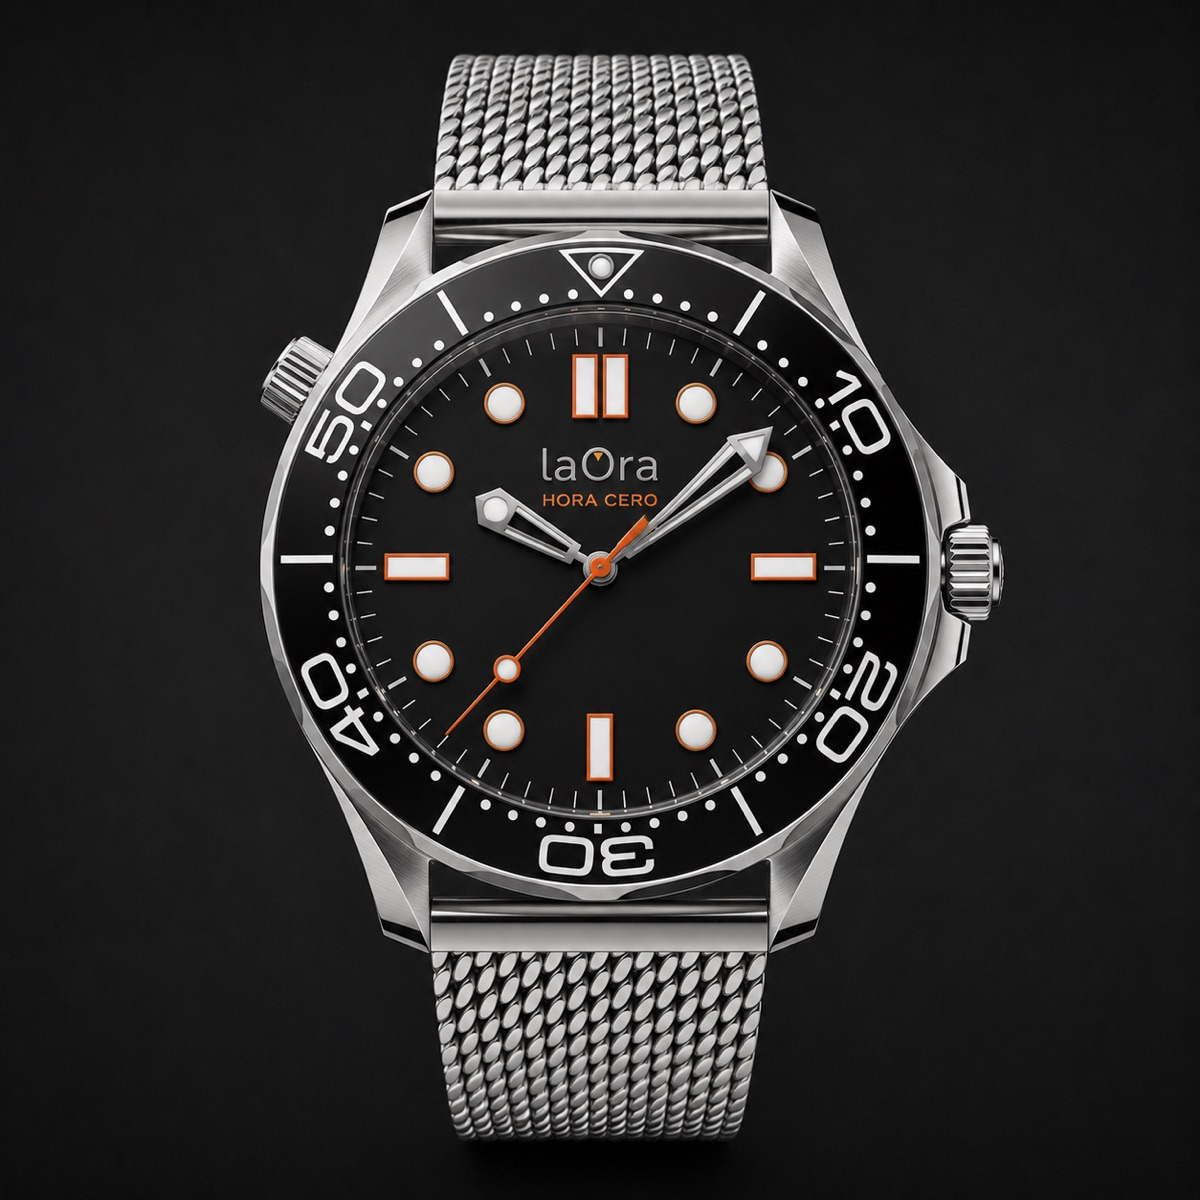
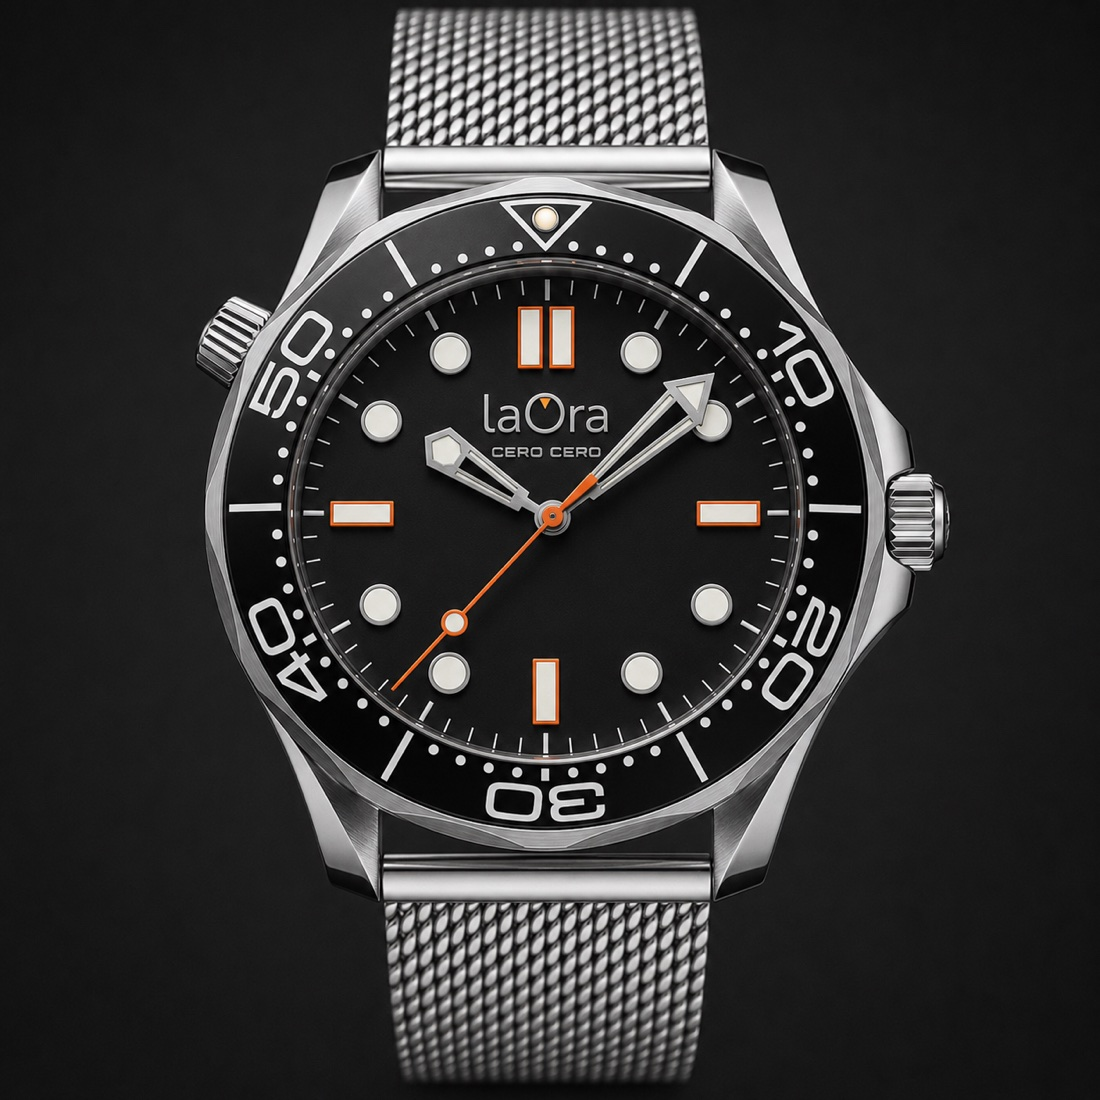
LO-02 pasa a llamarse «Cero Cero»: manda la esfera
El render dice CERO CERO y el nombre del reloj se alinea con él. Cambiado
en todas partes: h1, títulos, metas, og:, la colección, precios.js, los
documentos internos y el texto de la propia ficha.

La URL también: /relojes/lo-02-hora-cero.html → lo-02-cero-cero.html, con
301 en _redirects por si la vieja estuviera indexada o enlazada.

Y la foto de la ficha, que era el render antiguo con «HORA CERO» impreso
en la esfera: sustituida por el de Drive, que dice lo que toca.

Changed region(s): [[0.1545, 0.0, 0.8655, 0.9891]]

diff --git a/relojes/lo-02-cero-cero.html b/relojes/lo-02-cero-cero.html
@@ -4,11 +4,11 @@
 <meta charset="utf-8">
 <meta name="viewport" content="width=device-width,initial-scale=1">
 <meta name="description" content="Buceador de 300 m reales con malla milanesa, agujas espada y acentos naranja. Cada unidad pasa prueba de presión en Madrid. Desde 190 €.">
-<meta property="og:title" content="LO-02 «Hora Cero» — Buceador 300 m laOra">
+<meta property="og:title" content="LO-02 «Cero Cero» — Buceador 300 m laOra">
 <meta property="og:description" content="Buceador de 300 m reales con malla milanesa, agujas espada y acentos naranja. Cada unidad pasa prueba de presión en Madrid. Desde 190 €.">
-<meta property="og:url" content="https://laora.es/relojes/lo-02-hora-cero.html">
+<meta property="og:url" content="https://laora.es/relojes/lo-02-cero-cero.html">
 <meta property="og:image" content="https://laora.es/assets/img/relojes/lo-02.jpg">
-<title>LO-02 «Hora Cero» — Buceador 300 m laOra · desde 190 €</title>
+<title>LO-02 «Cero Cero» — Buceador 300 m laOra · desde 190 €</title>
 <link rel="icon" type="image/png" href="/assets/img/app-laora.png?v=2">
 <link rel="apple-touch-icon" href="/apple-touch-icon.png?v=2">
 <link rel="manifest" href="/manifest.json">
@@ -35,11 +35,11 @@
   <div class="container hero-grid">
     <div class="stage reveal">
       <span class="stage-badge"><span class="laora">laOra</span> · LO-02</span>
-      <img src="/assets/img/relojes/lo-02.jpg" alt="Reloj laOra Hora Cero, buceador 300 m" onerror="this.remove()">
+      <img src="/assets/img/relojes/lo-02.jpg" alt="Reloj laOra Cero Cero, buceador 300 m" onerror="this.remove()">
     </div>
     <div>
       <span class="eyebrow">LO-02 · Buceador 300 m</span>
-      <h1>«Hora Cero»</h1>
+      <h1>«Cero Cero»</h1>
       <p class="hero-sub" style="margin-top:14px">Buceador 300 m · desde <b>190 €</b></p>
       <div class="hero-cta">
         <a href="/coleccion.html" class="btn btn-carbon">Avísame del estreno</a>
@@ -84,7 +84,7 @@
       <h2>Lo mismo que amas. Sin el peaje.</h2>
     </div>
     <div class="story reveal">
-      <p>El favorito de mucha gente, y se entiende. El «Hora Cero» recoge lo que lo hace grande: esfera negra con acentos naranja, agujas espada, bisel cerámico y esa malla milanesa que es media personalidad del reloj.</p>
+      <p>El favorito de mucha gente, y se entiende. El «Cero Cero» recoge lo que lo hace grande: esfera negra con acentos naranja, agujas espada, bisel cerámico y esa malla milanesa que es media personalidad del reloj.</p>
       <p>Y recoge también su idea. En este reloj el bisel no es un adorno: es el aro con el que marcas tu minuto cero y ves cuánto llevas. Por eso lo cuidamos donde se nota — clic firme, sin holgura, unidireccional como debe ser.</p>
       <p>Lo demás no se ve en la foto y sí en el agua: cada unidad pasa la prueba de presión en Madrid antes de salir. Y en la malla no aceptamos el cierre magnético barato: va con cierre desplegable de calidad. Un detalle así es donde se nota si alguien te ha respetado o te ha ahorrado.</p>
     </div>
@@ -257,7 +257,7 @@
 <section class="block dark-sec" style="background:radial-gradient(120% 120% at 50% 0%,#1b1e24,#0b0d12)">
   <div class="container block-head reveal">
     <span class="eyebrow">El estreno</span>
-    <h2>Que te avisemos cuando salga el «Hora Cero».</h2>
+    <h2>Que te avisemos cuando salga el «Cero Cero».</h2>
     <p>Sin pago por adelantado. Te escribimos en cuanto se abra la reserva, por orden de llegada.</p>
     <div class="hero-cta" style="justify-content:center;margin-top:30px">
       <a href="/coleccion.html" class="btn btn-ambar">Avísame del estreno</a>

diff --git a/coleccion.html b/coleccion.html
@@ -202,9 +202,9 @@ footer{background:var(--negro);border-top:1px solid rgba(255,255,255,.08)}
           <span class="uno-ref">LO-01</span>
           <span class="uno-precio">desde 190 €</span>
         </a>
-        <a class="uno c-reveal" href="/relojes/lo-02-hora-cero.html">
-          <div class="uno-foto"><img src="/assets/img/relojes/col-02.jpg" alt="Hora Cero de laOra, buceador · 300 m" loading="lazy"></div>
-          <span class="uno-nombre">hora cero</span>
+        <a class="uno c-reveal" href="/relojes/lo-02-cero-cero.html">
+          <div class="uno-foto"><img src="/assets/img/relojes/col-02.jpg" alt="Cero Cero de laOra, buceador · 300 m" loading="lazy"></div>
+          <span class="uno-nombre">cero cero</span>
           <span class="uno-ref">LO-02</span>
           <span class="uno-precio">desde 190 €</span>
         </a>

diff --git a/assets/js/precios.js b/assets/js/precios.js
@@ -37,7 +37,7 @@ var LAORA_PRECIOS = {
     }
   },
   'LO-02': {
-    nombre: 'Hora Cero',
+    nombre: 'Cero Cero',
     acabados: {
       Alba:    { precio: null, horquilla: 'Desde 190 €' },
       Levante: { precio: null, horquilla: '280–380 €' },

diff --git a/.docs/copy-web.md b/.docs/copy-web.md
@@ -1,6 +1,6 @@
 # laOra — Copy completo de la web (v3)
 
-Cambios respecto a v1: colección renumerada del LO-01 al LO-09 sin huecos (solo se mueve Hora Cero, del 10 al 02), «Octógono» pasa a «Ocho» y «Puerto» a «Bitácora», encabezados sin marcas ajenas (la marca homenajeada vive solo dentro de «La historia»), ST1901 corregido a cuerda manual, manifiesto abierto a tres corazones, LO-10 renombrado «Hora Cero», estanqueidad en dos registros.
+Cambios respecto a v1: colección renumerada del LO-01 al LO-09 sin huecos (solo se mueve Cero Cero, del 10 al 02), «Octógono» pasa a «Ocho» y «Puerto» a «Bitácora», encabezados sin marcas ajenas (la marca homenajeada vive solo dentro de «La historia»), ST1901 corregido a cuerda manual, manifiesto abierto a tres corazones, LO-10 renombrado «Cero Cero», estanqueidad en dos registros.
 
 ---
 
@@ -152,7 +152,7 @@ Montaje, calibración y control uno a uno. Garantía de 2 años con servicio té
 
 ---
 
-## LO-02 «Hora Cero»
+## LO-02 «Cero Cero»
 **Buceador 300 m · desde 190 €**
 
 ### LA HISTORIA
@@ -164,7 +164,7 @@ Antes de cada operación, alguien dice una hora. Todos ponen su reloj en la mism
 Porque reúne dos mundos que casi nunca conviven: la herramienta y el traje. Es un instrumento de buceo profesional —300 metros de estanqueidad, bisel para cronometrar el aire que te queda, lume para la oscuridad del fondo— y sin embargo desaparece bajo el puño de una camisa. Esa doble vida, más la malla milanesa y el toque de naranja, lo convirtieron en una de las siluetas más reconocibles del mundo.
 
 ### NUESTRO TRIBUTO
-El favorito de mucha gente, y se entiende. El «Hora Cero» recoge lo que lo hace grande: esfera negra con acentos naranja, agujas espada, bisel cerámico y esa malla milanesa que es media personalidad del reloj.
+El favorito de mucha gente, y se entiende. El «Cero Cero» recoge lo que lo hace grande: esfera negra con acentos naranja, agujas espada, bisel cerámico y esa malla milanesa que es media personalidad del reloj.
 
 Y recoge también su idea. En este reloj el bisel no es un adorno: es el aro con el que marcas tu minuto cero y ves cuánto llevas. Por eso lo cuidamos donde se nota — clic firme, sin holgura, unidireccional como debe ser.
 
@@ -400,7 +400,7 @@ Montaje, calibración y control uno a uno. Garantía de 2 años con servicio té
 
 # EDICIÓN ECLIPSE — la línea negra
 
-*(Edición especial disponible en modelos seleccionados: Lunar, Hora Cero, Precisa, Ocho Lados, Bitácora y Tortuga. Se ofrece sobre los acabados medios y altos.)*
+*(Edición especial disponible en modelos seleccionados: Lunar, Cero Cero, Precisa, Ocho Lados, Bitácora y Tortuga. Se ofrece sobre los acabados medios y altos.)*
 
 ### Titular
 **Todo se apaga. Menos una cosa.**
@@ -415,7 +415,7 @@ El negro no es pintura. Es **DLC**, un revestimiento de carbono tan duro que se 
 No es un color más. Es el mismo reloj que ya conoces, llevado a su versión más rotunda. Para quien no quiere que su reloj hable por él, sino que calle con estilo.
 
 ### Nota (Dev)
-La Edición Eclipse funciona como un interruptor de acabado dentro de la ficha de los modelos elegibles: mismo diseño, revestimiento DLC negro, esfera negra y agujas plateadas con segundero amarillo. En los divers (Hora Cero, Tortuga) puede ofrecerse la variante de horaria amarilla para un look más marcado. Lleva su prima de precio por el DLC.
+La Edición Eclipse funciona como un interruptor de acabado dentro de la ficha de los modelos elegibles: mismo diseño, revestimiento DLC negro, esfera negra y agujas plateadas con segundero amarillo. En los divers (Cero Cero, Tortuga) puede ofrecerse la variante de horaria amarilla para un look más marcado. Lleva su prima de precio por el DLC.
 
 ---
 

diff --git a/.docs/brief-desarrollo.md b/.docs/brief-desarrollo.md
@@ -69,7 +69,7 @@ Numeración final LO-01 a LO-09, sin huecos. En la rejilla y en la UI **los mode
 | Ref | Nombre | Categoría | Homenaje (solo en «La historia») | Esfera / color | Movimientos | Acabados | Desde | Riesgo legal |
 |---|---|---|---|---|---|---|---|---|
 | LO-01 | «Lunar» | Cronógrafo | Omega Speedmaster Moonwatch | Negra, 3 subesferas | VK63 mecacuarzo · ST1901 cuerda manual | 4 | 190 € | Medio |
-| LO-02 | «Hora Cero» | Buceador 300 m | Omega Seamaster Diver 300M (Bond) | Negra, acentos naranja, malla, sin fecha | VH31 mecacuarzo · NH35 automático | 4 | 190 € | Medio |
+| LO-02 | «Cero Cero» | Buceador 300 m | Omega Seamaster Diver 300M (Bond) | Negra, acentos naranja, malla, sin fecha | VH31 mecacuarzo · NH35 automático | 4 | 190 € | Medio |
 | LO-03 | «Bauhaus» | Vestir | Nomos Tangente | Blanca, agujas azules, segundero pequeño; correa arena | Ronda cuarzo subsegundos · Seagull ST17 cuerda manual | 3 | 170 € | Bajo |
 | LO-04 | «Precisa» | Deportivo integrado | Tissot PRX | Azul marino, relieve de cuadraditos | Ronda cuarzo · NH35 · PT5000/Miyota 9015 | 3 | 190 € | Bajo |
 | LO-05 | «Trinchera» | Militar de campo | Hamilton Khaki Field | Negra militar, cordura verde | Cuarzo · NH35 | 3 | 150 € | Bajo |
